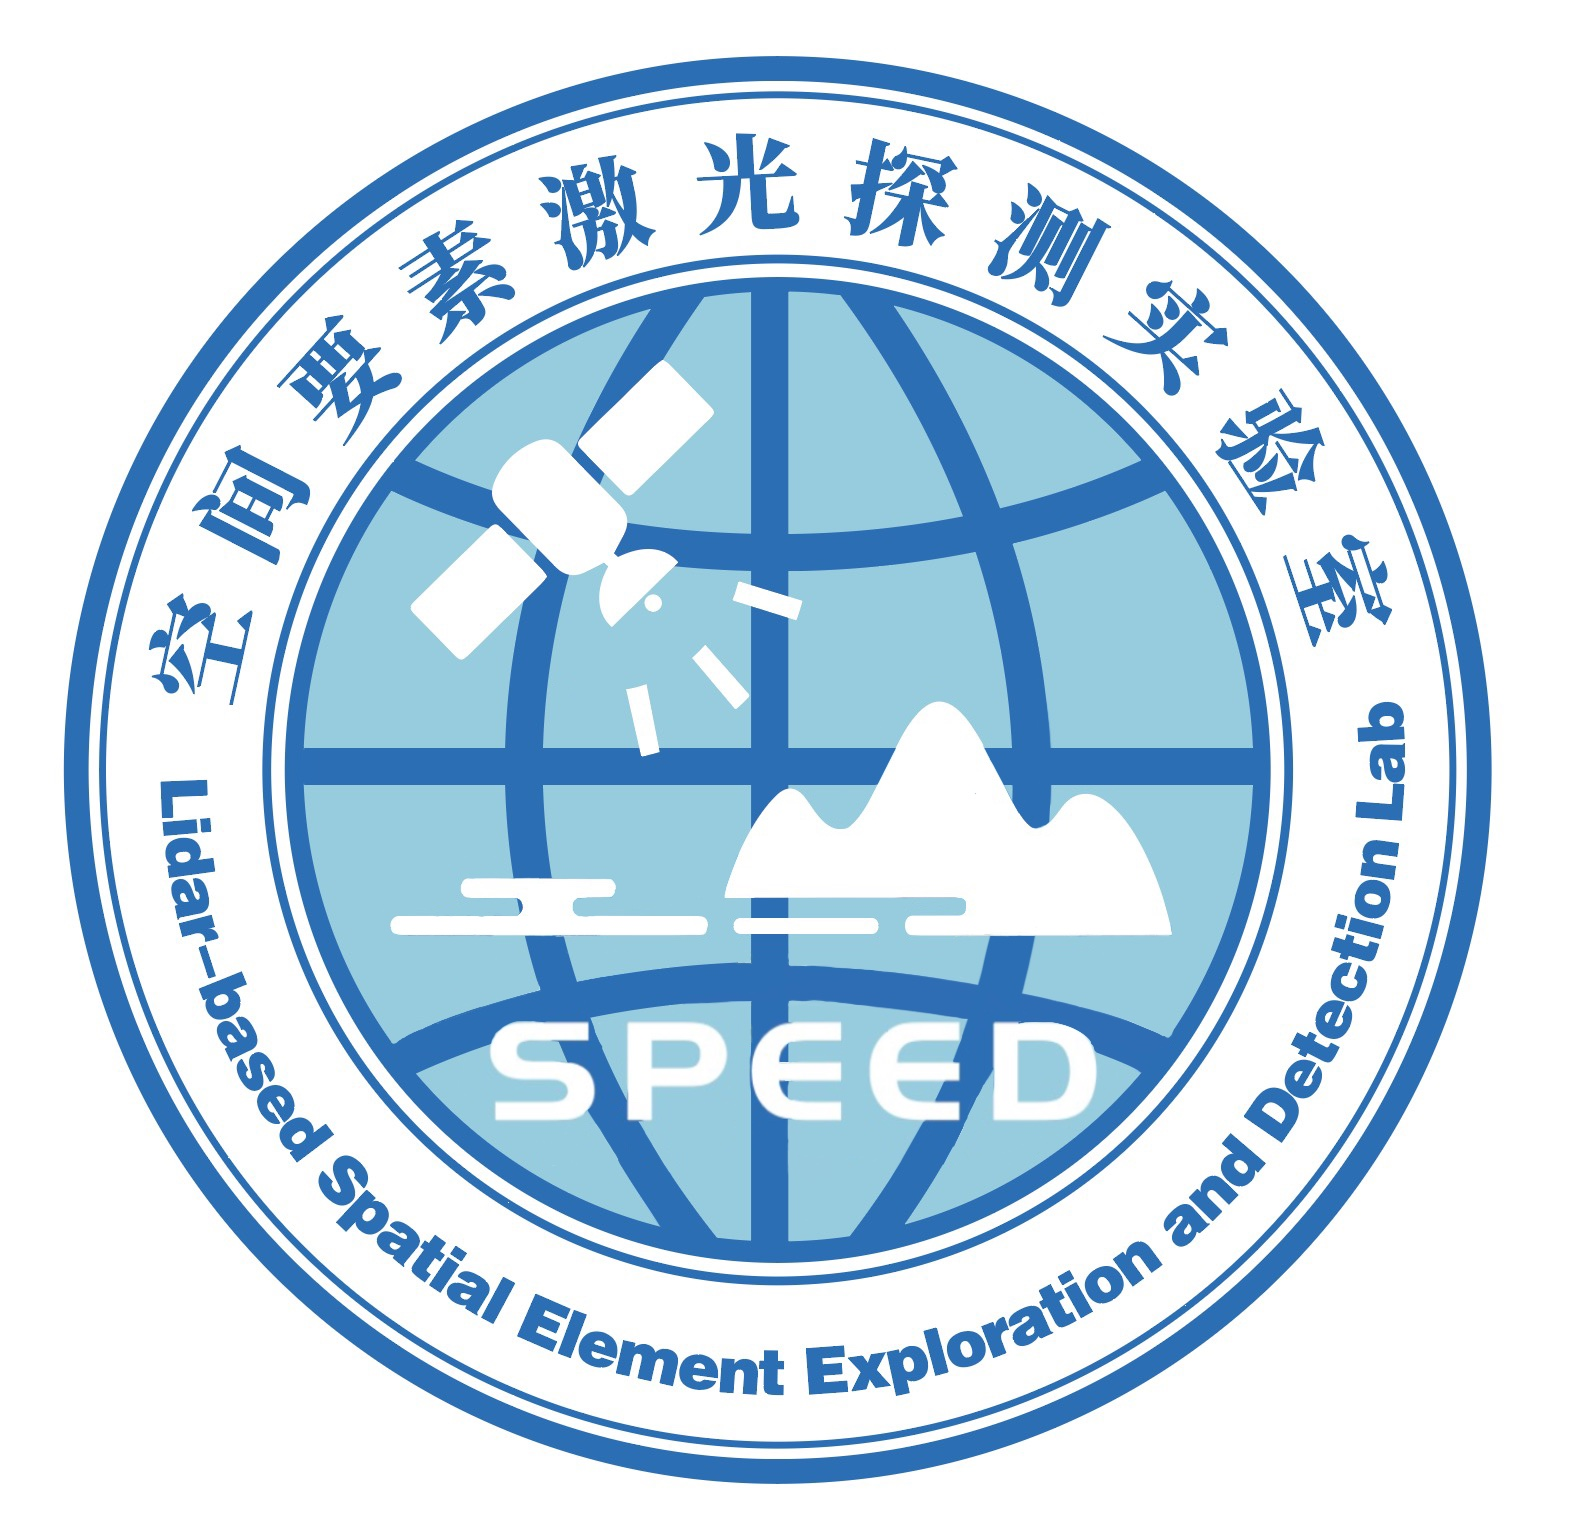
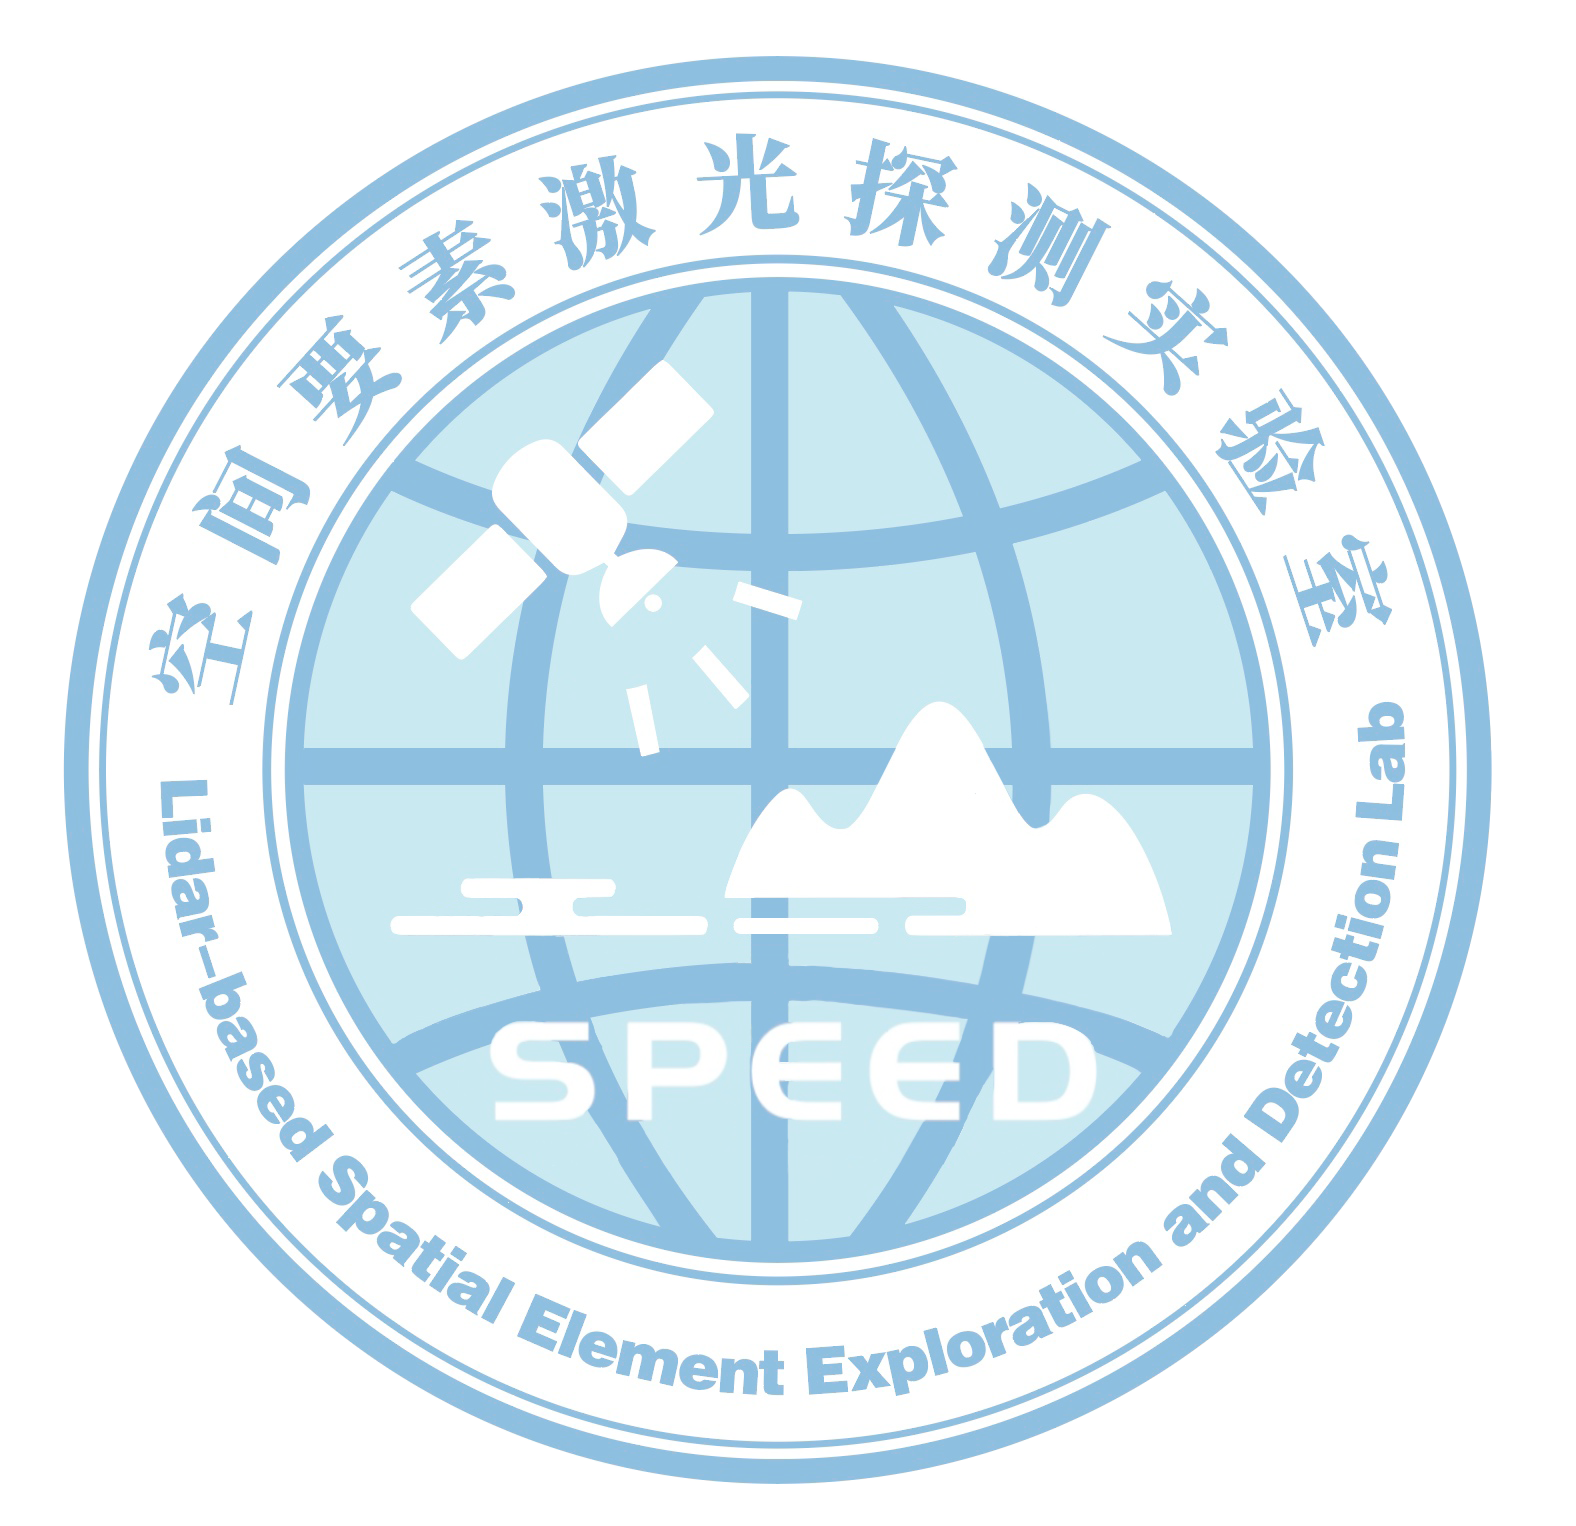
image

diff --git a/css/style.css b/css/style.css
@@ -1021,7 +1021,7 @@ and (max-width : 480px) {
 }
 
 .bg-image {
-    background-image: url("E:\\前端项目\\speedlab\\images\\logo2.jpg");
+    background-image: url("E:\\前端项目\\speedlab\\images\\speedlablog - 副本.jpg");
     background-repeat: no-repeat;
     /* background-size: cover; */
     background-size: contain;
